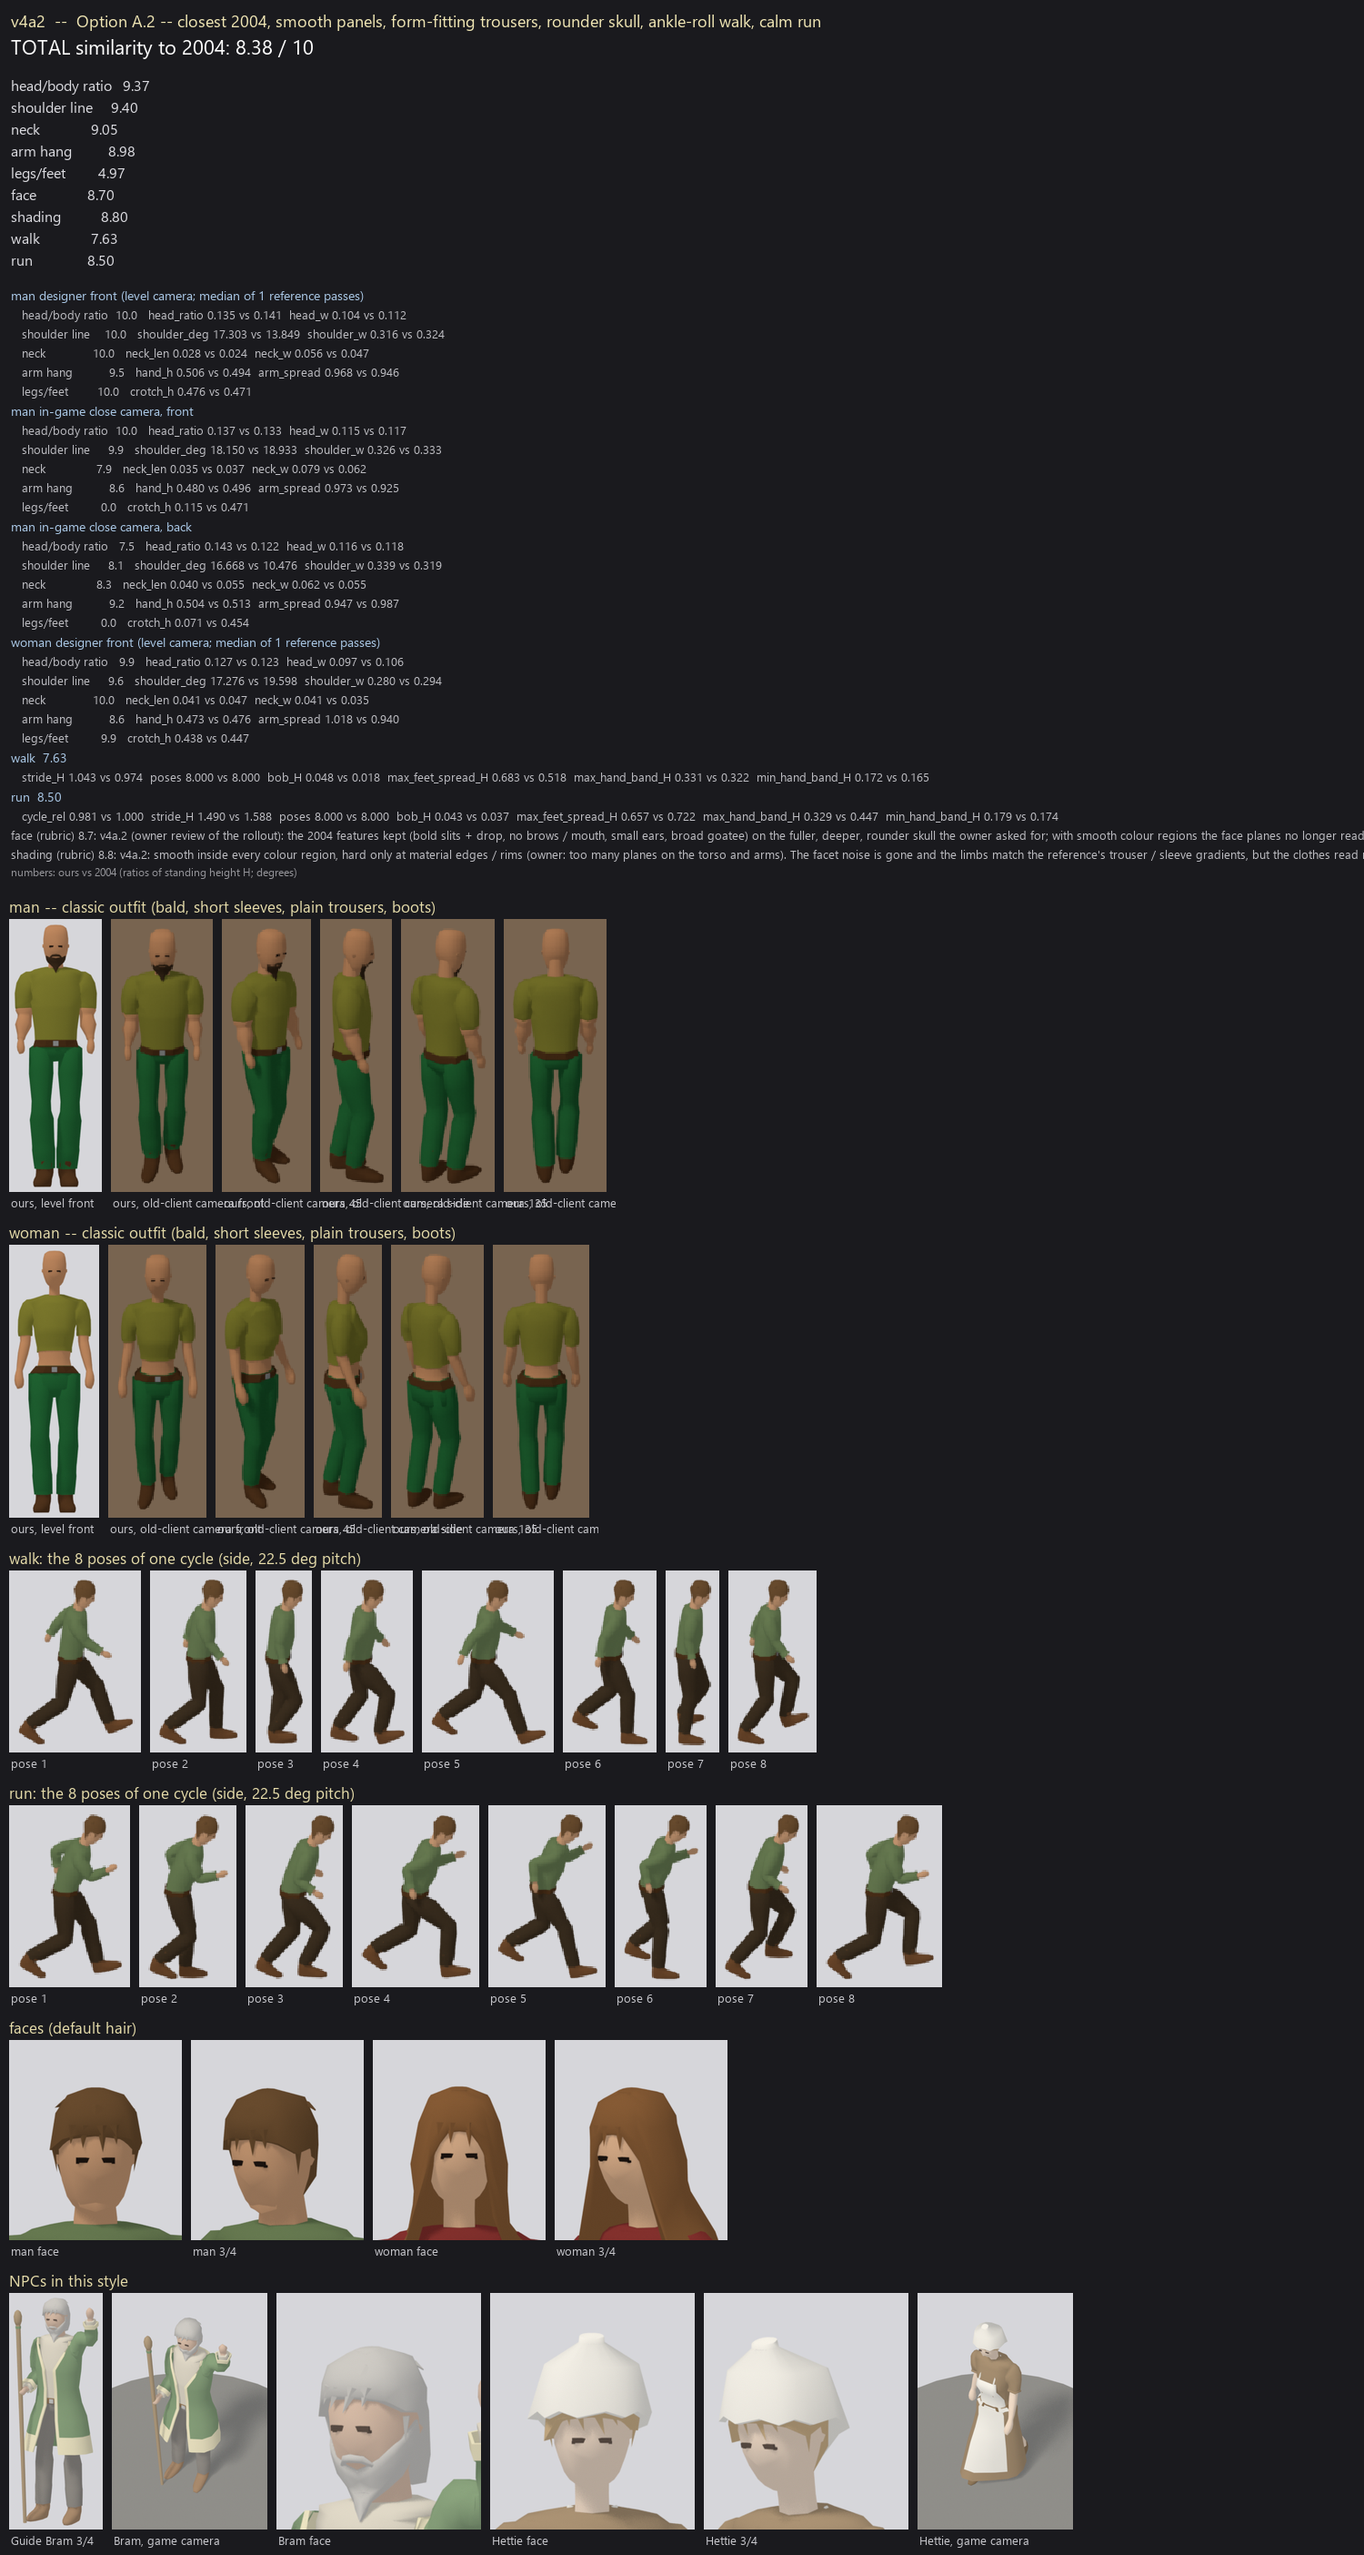
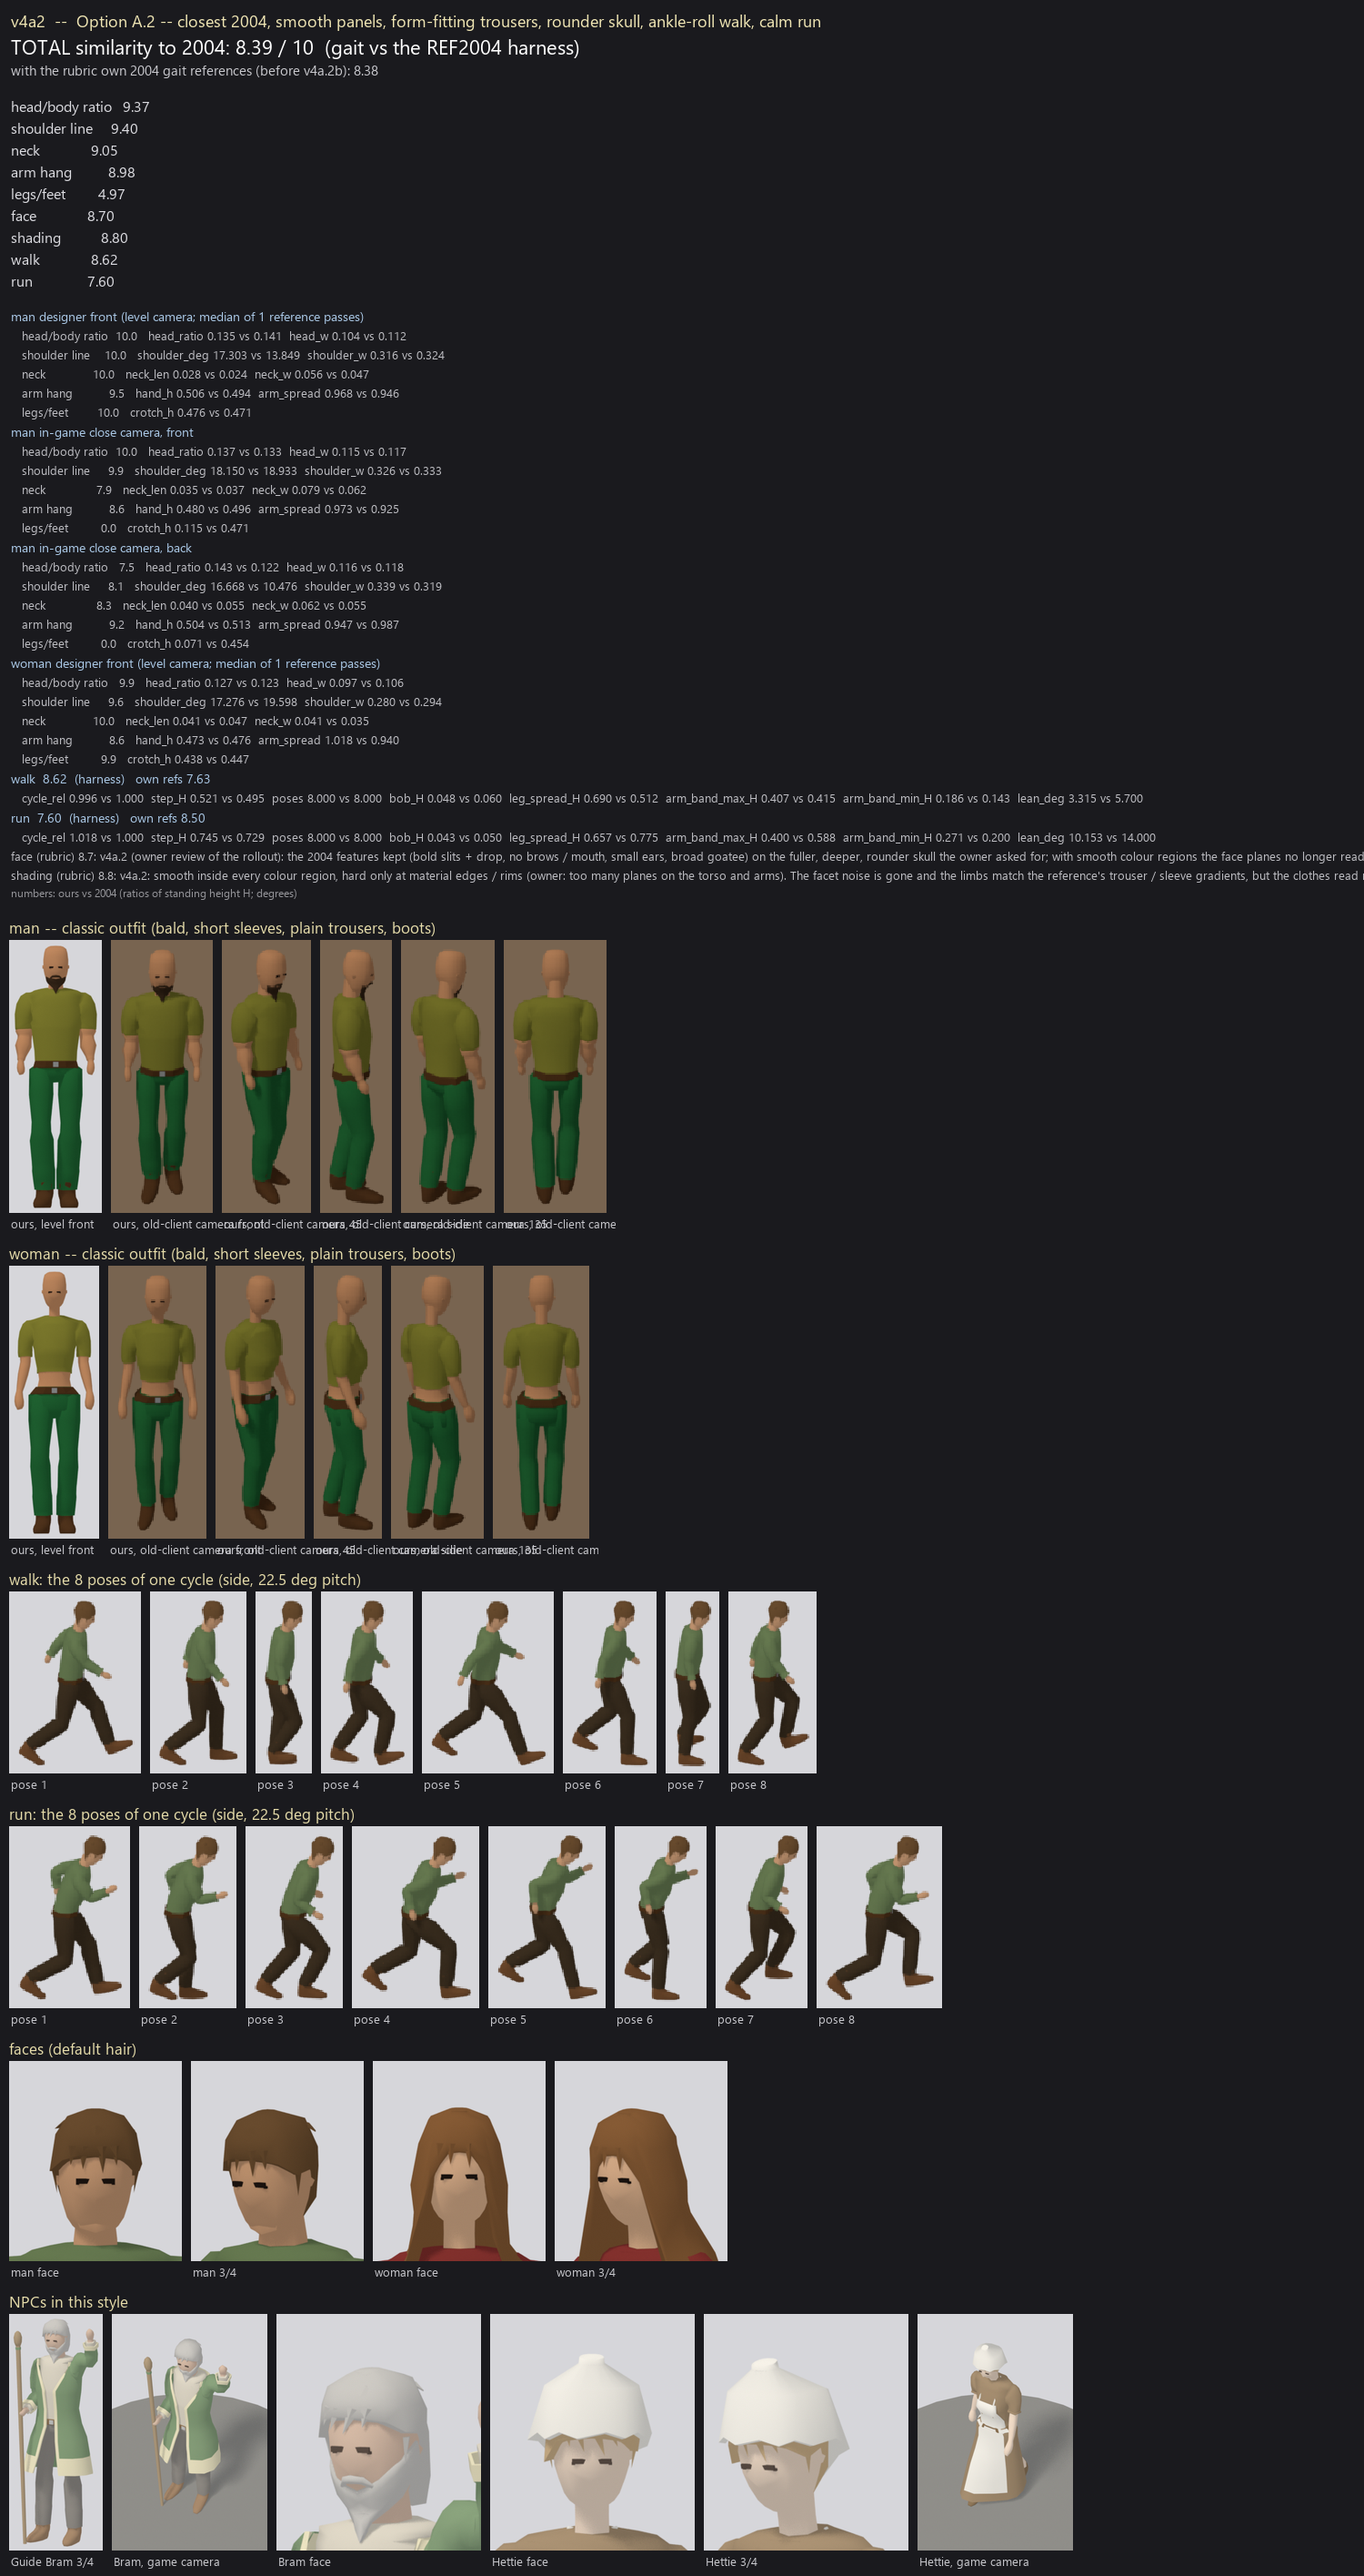
Character rubric: grade the gait against the REF2004 harness (its 2004 numbers + formulas); keep the old total alongside
holm_char_metrics_v4.harness_gait = tools/ref2004/analyze.py gait() on our side renders (bob p95-p5, leg spread of the
bottom 28 %, arm band of rows 28-55 %, top- vs bottom-quarter lean); CRITERIA_HARNESS adds the walk cycle and the lean,
the stride per step. holm_char_compare_v4 prints / stores both totals: A.2 as merged = 8.39 (harness) / 8.38 (own refs).

diff --git a/tools/holm_char_compare_v4.py b/tools/holm_char_compare_v4.py
@@ -165,6 +165,27 @@ for cn in ('walk', 'run'):
     ref_g[cn + '_apparent_h_px'] = r['apparent_h_px']
 gs = M.score(ours_g, ref_g)
 
+# v4a.2b: the same gait graded against the REF2004 harness (docs/rebuild/REF2004_FEEL_REPORT.md): its 2004 numbers from
+# C:/Users/iQwaZ/ref2004_captures/characters/metrics.json (numbers only), ours from our side renders with its formulas.
+# The rubric's own 2004 references above (bob from the per-frame apparent height, the 12 % feet band, the 40-52 % hand band)
+# disagree with the harness (walk bob 1.8 % vs 6 %), so the harness grade is the headline total; the old one is kept.
+HARN_PATH = arg('--harness', 'C:/Users/iQwaZ/ref2004_captures/characters/metrics.json')
+HARN = json.load(open(HARN_PATH))['man']['2004']['gait']
+ours_h, ref_h = {}, {}
+for cn in ('walk', 'run'):
+    g = M.harness_gait([M.load_mask(f) for f in MEAS['renders']['gaitsil_A_%s' % cn]], ground=ground)
+    r = HARN[cn]
+    ours_h[cn + '_cycle_rel'] = MEAS['gait'][cn]['cycle_s'] / r['cycle_s']; ref_h[cn + '_cycle_rel'] = 1.0
+    ours_h[cn + '_step_H'] = MEAS['gait'][cn]['step_H']; ref_h[cn + '_step_H'] = r['stride_in_body_heights']
+    ours_h[cn + '_poses'] = ours_g[cn + '_poses']; ref_h[cn + '_poses'] = float(r.get('anim_frames_per_cycle', 8))
+    ours_h[cn + '_bob_H'] = g['bob_H']; ref_h[cn + '_bob_H'] = r['bob_pct_of_H'] / 100.0
+    ours_h[cn + '_leg_spread_H'] = g['leg_spread_H']; ref_h[cn + '_leg_spread_H'] = r['leg_spread_max_over_H']
+    ours_h[cn + '_arm_band_max_H'] = g['arm_band_max_H']; ref_h[cn + '_arm_band_max_H'] = r['arm_band_width_max_over_H']
+    ours_h[cn + '_arm_band_min_H'] = g['arm_band_min_H']; ref_h[cn + '_arm_band_min_H'] = r['arm_band_width_min_over_H']
+    ours_h[cn + '_lean_deg'] = g['lean_deg']; ref_h[cn + '_lean_deg'] = r['lean_deg_forward']
+    ref_h[cn + '_apparent_h_px'] = r['H_px_median']
+gh = M.score(ours_h, ref_h, criteria=M.CRITERIA_HARNESS)
+
 # ---------------------------------------------------------------------------------------------- totals
 crit = {}
 for c in SIL:
@@ -172,11 +193,14 @@ for c in SIL:
     crit[c] = round(float(np.mean(vals)), 2)
 crit['face'] = RUBRIC['face']['score']
 crit['shading'] = RUBRIC['shading']['score']
-crit['walk'] = gs['walk']['score']
-crit['run'] = gs['run']['score']
+crit_own = dict(crit, walk=gs['walk']['score'], run=gs['run']['score'])
+total_own = round(float(np.mean(list(crit_own.values()))), 2)
+crit['walk'] = gh['walk']['score']
+crit['run'] = gh['run']['score']
 total = round(float(np.mean(list(crit.values()))), 2)
 res = {'option': OPT, 'label': MEAS['label'], 'total': total, 'criteria': crit, 'silhouette_views': per_view,
-       'gait': {c: gs[c] for c in ('walk', 'run')},
+       'gait': {c: gh[c] for c in ('walk', 'run')}, 'gait_references': 'REF2004 harness metrics.json (2004) + its formulas on our renders',
+       'total_with_own_gait_refs': total_own, 'criteria_with_own_gait_refs': crit_own, 'gait_own_refs': {c: gs[c] for c in ('walk', 'run')},
        'rubric': RUBRIC, 'notes': ['scores: 10 * max(0, 1 - (|ours - 2004| - measuring noise) / tolerance), averaged per criterion',
                                    'tolerances = "clearly a different figure" (tools/holm_char_metrics_v4.py CRITERIA)',
                                    'silhouette criteria: man + woman, designer (level) view + the old client close camera where the reference mask is clean',
@@ -184,6 +208,7 @@ res = {'option': OPT, 'label': MEAS['label'], 'total': total, 'criteria': crit, 
                                    'face / shading: eye-judged rubric (see rubric notes)']}
 json.dump(res, open(os.path.join(OURS, '%s_score.json' % OPT), 'w'), indent=1)
 print(OPT, 'TOTAL', total, crit)
+print(OPT, 'TOTAL with the rubric own 2004 gait references (as before)', total_own, {c: crit_own[c] for c in ('walk', 'run')})
 
 # ---------------------------------------------------------------------------------------------- sheets
 BG = (26, 26, 30)
@@ -222,7 +247,8 @@ def row_img(title, cells, h):
     return out
 
 def table_img(with_ref_numbers=True):
-    lines = [('%s  --  %s' % (OPT, MEAS['label']), (240, 230, 180), 18), ('TOTAL similarity to 2004: %.2f / 10' % total, (255, 255, 255), 22), ('', None, 8)]
+    lines = [('%s  --  %s' % (OPT, MEAS['label']), (240, 230, 180), 18), ('TOTAL similarity to 2004: %.2f / 10  (gait vs the REF2004 harness)' % total, (255, 255, 255), 22),
+             ('with the rubric own 2004 gait references (before v4a.2b): %.2f' % total_own, (200, 200, 205), 15), ('', None, 8)]
     for c in ['head/body ratio', 'shoulder line', 'neck', 'arm hang', 'legs/feet', 'face', 'shading', 'walk', 'run']:
         lines.append(('%-16s %5.2f' % (c, crit[c]), (220, 220, 225), 16))
     lines.append(('', None, 8))
@@ -232,8 +258,8 @@ def table_img(with_ref_numbers=True):
             txt = '   %-16s %4.1f   ' % (c, v['scores'][c]) + '  '.join('%s %.3f vs %.3f' % (k, q['ours'], q['ref']) for k, q in dd.items())
             lines.append((txt, (190, 190, 195), 13))
     for cn in ('walk', 'run'):
-        lines.append(('%s  %.2f' % (cn, gs[cn]['score']), (170, 200, 230), 14))
-        lines.append(('   ' + '  '.join('%s %.3f vs %.3f' % (k.replace(cn + '_', ''), q['ours'], q['ref']) for k, q in gs[cn]['detail'].items()), (190, 190, 195), 13))
+        lines.append(('%s  %.2f  (harness)   own refs %.2f' % (cn, gh[cn]['score'], gs[cn]['score']), (170, 200, 230), 14))
+        lines.append(('   ' + '  '.join('%s %.3f vs %.3f' % (k.replace(cn + '_', ''), q['ours'], q['ref']) for k, q in gh[cn]['detail'].items()), (190, 190, 195), 13))
     for c in ('face', 'shading'):
         lines.append(('%s (rubric) %.1f: %s' % (c, RUBRIC[c]['score'], RUBRIC[c]['note']), (190, 190, 195), 13))
     lines.append(('numbers: ours vs 2004 (ratios of standing height H; degrees)', (150, 150, 155), 12))

diff --git a/tools/holm_char_metrics_v4.py b/tools/holm_char_metrics_v4.py
@@ -168,6 +168,33 @@ def gait_sil(masks, ground=None):
                 min_hand_band_H=float(min(r[3] for r in rows) / hh), apparent_h_px=hh, samples=len(rows))
 
 
+def harness_gait(masks, ground=None):
+    """the REF2004 harness's gait numbers (tools/ref2004/analyze.py gait()) from one cycle of side silhouettes: bob = p95 - p5
+    of the top above the ground, leg spread = p95 of the bottom 28 %'s extent, arm band = p95 / p5 of rows 28-55 %'s
+    extent, lean = median atan2(top-quarter centroid - bottom-quarter centroid, 0.75 H), + = top ahead (to screen right);
+    all / the median height. v4a.2b: the rubric grades the gait against the harness's 2004 numbers with these formulas."""
+    tops, spreads, arms, leans, hs = [], [], [], [], []
+    for m in masks:
+        ys, xs = np.nonzero(m)
+        if len(ys) < 30:
+            continue
+        top, bot = ys.min(), ys.max()
+        H = bot - top + 1
+        hs.append(H)
+        tops.append((ground if ground is not None else bot) - top)
+        lx = np.nonzero(m[bot - int(.28 * H):bot + 1].any(axis=0))[0]
+        spreads.append(lx.max() - lx.min() + 1)
+        bx = np.nonzero(m[top + int(.28 * H):top + int(.55 * H)].any(axis=0))[0]
+        arms.append(bx.max() - bx.min() + 1)
+        ct = np.nonzero(m[top:top + int(.25 * H)])[1].mean()
+        cb = np.nonzero(m[bot - int(.25 * H):bot + 1])[1].mean()
+        leans.append(math.degrees(math.atan2(ct - cb, .75 * H)))
+    hm = float(np.median(hs))
+    return dict(bob_H=float((np.percentile(tops, 95) - np.percentile(tops, 5)) / hm), leg_spread_H=float(np.percentile(spreads, 95) / hm),
+                arm_band_max_H=float(np.percentile(arms, 95) / hm), arm_band_min_H=float(np.percentile(arms, 5) / hm),
+                lean_deg=float(np.median(leans)), apparent_h_px=hm, samples=len(hs))
+
+
 # criterion -> [(metric, tolerance)]: a difference of `tolerance` beyond the measuring noise scores 0, none scores 10.
 # Tolerances are "clearly a different figure" (e.g. a head 20% taller, a shoulder line 15 deg steeper); the noise is what
 # the reference's pixel size allows (1.5 px of its height for the ratios, 4 deg for slopes), so a match within the
@@ -183,6 +210,13 @@ CRITERIA = {
     'run': [('run_cycle_rel', .45), ('run_stride_H', .40), ('run_poses', 6.0), ('run_bob_H', .03), ('run_max_feet_spread_H', .25),
             ('run_max_hand_band_H', .15), ('run_min_hand_band_H', .10)],
 }
+# v4a.2b: the gait criteria against the REF2004 harness numbers (same formulas both sides; the same tolerances as the old
+# criteria, the stride per step instead of per cycle, plus the walk cycle and the forward lean)
+CRITERIA_HARNESS = dict(CRITERIA,
+    walk=[('walk_cycle_rel', .45), ('walk_step_H', .15), ('walk_poses', 6.0), ('walk_bob_H', .025), ('walk_leg_spread_H', .20),
+          ('walk_arm_band_max_H', .15), ('walk_arm_band_min_H', .10), ('walk_lean_deg', 10.0)],
+    run=[('run_cycle_rel', .45), ('run_step_H', .20), ('run_poses', 6.0), ('run_bob_H', .03), ('run_leg_spread_H', .25),
+         ('run_arm_band_max_H', .15), ('run_arm_band_min_H', .10), ('run_lean_deg', 10.0)])
 NOISE_DEG = 4.0
 
 
@@ -200,10 +234,10 @@ def _noise(k, ref):
     return 1.5 / hp if hp else 0.0
 
 
-def score(ours, ref, rubric=None):
+def score(ours, ref, rubric=None, criteria=None):
     """per-criterion scores 0..10 + total; rubric = {criterion: score} for the eye-judged ones (face, shading, ...)"""
     res = {}
-    for crit, items in CRITERIA.items():
+    for crit, items in (criteria or CRITERIA).items():
         vals = []
         for k, tol in items:
             a, b = ours.get(k), ref.get(k)
